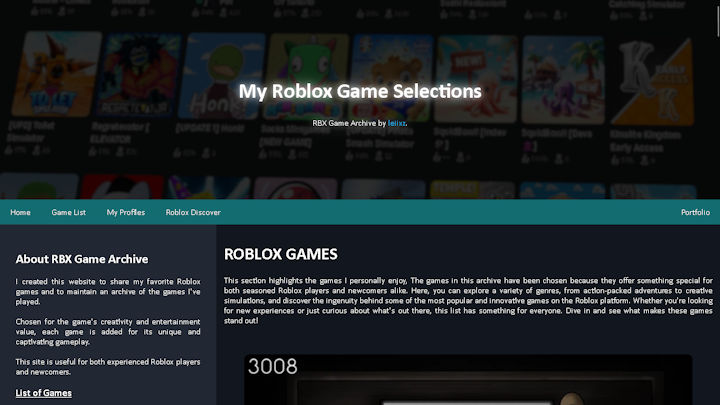
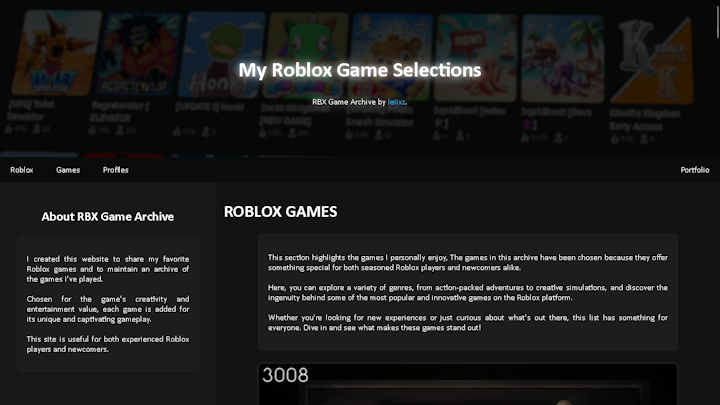
Add files via upload

diff --git a/game-archive-style.css b/game-archive-style.css
@@ -82,7 +82,7 @@ a {
   top: 0; /* Stick it to the top of the viewport */
   z-index: 1000; /* Ensure it appears above other content */
   overflow: hidden;
-  background-color: #007e85;
+  background-color: #0a0b0b;
   width: 100%;
   box-sizing: border-box;
   margin: 0 auto;
@@ -108,7 +108,7 @@ a {
 
 /* Change color on hover */
 .navbar a:hover {
-  background-color: #065458;
+  background-color: #101111;
 }
 
 /* Responsive adjustments */
@@ -135,9 +135,9 @@ a {
   max-width: 800px; /* Limit the maximum width */
   margin: 20px auto; /* Center the container */
   padding: 20px;
-  background-color: #2a2e35; /* Light background color */
+  background-color: #1d1d1d; /* Light background color */
   color: #ffffff; /* Text color */
-  border: 1px solid #15181d; /* Visible thin border */
+  border: 1px solid rgb(14, 14, 14); /* Visible thin border */
   border-radius: 10px;
   box-sizing: border-box; /* Ensure padding and border are included in the total width and height */
   text-align: justify; /* Justify the text */
@@ -177,7 +177,7 @@ a {
 .side {
   -ms-flex: 30%; /* IE10 */
   flex: 30%;
-  background-color: #222833;
+  background-color: #181818;
   padding: 30px;
 }
 
@@ -196,7 +196,7 @@ a {
   width: 190px; /* Set appropriate width for profile picture */
   height: 190px; /* Set appropriate height for profile picture */
   border-radius: 50%;
-  border: 3px solid #087275; /* Add border with color */
+  border: 3px solid #202020; /* Add border with color */
   transition: filter 0.3s ease;
 }
 
@@ -224,7 +224,7 @@ a {
 .main {   
   -ms-flex: 70%; /* IE10 */
   flex: 70%;
-  background-color: #12171f;
+  background-color: #131313;
   padding: 15px;
 }
 
@@ -236,6 +236,7 @@ a {
   margin: 20px auto;
   text-align: center;
   border-radius: 10px;
+  border: 3px solid #202020; /* Add border with color */
   overflow: hidden;
   box-sizing: border-box; /* Include padding and border in total width */
 }
@@ -315,7 +316,7 @@ a {
 .footer {
   padding: 3px;
   text-align: center;
-  background-color: #0e121a; /* Very dark grey background */
+  background-color: #0a0b0b; /* Very dark grey background */
   color: #4e4e4e; /* Light grey text for better readability */
 }
 
